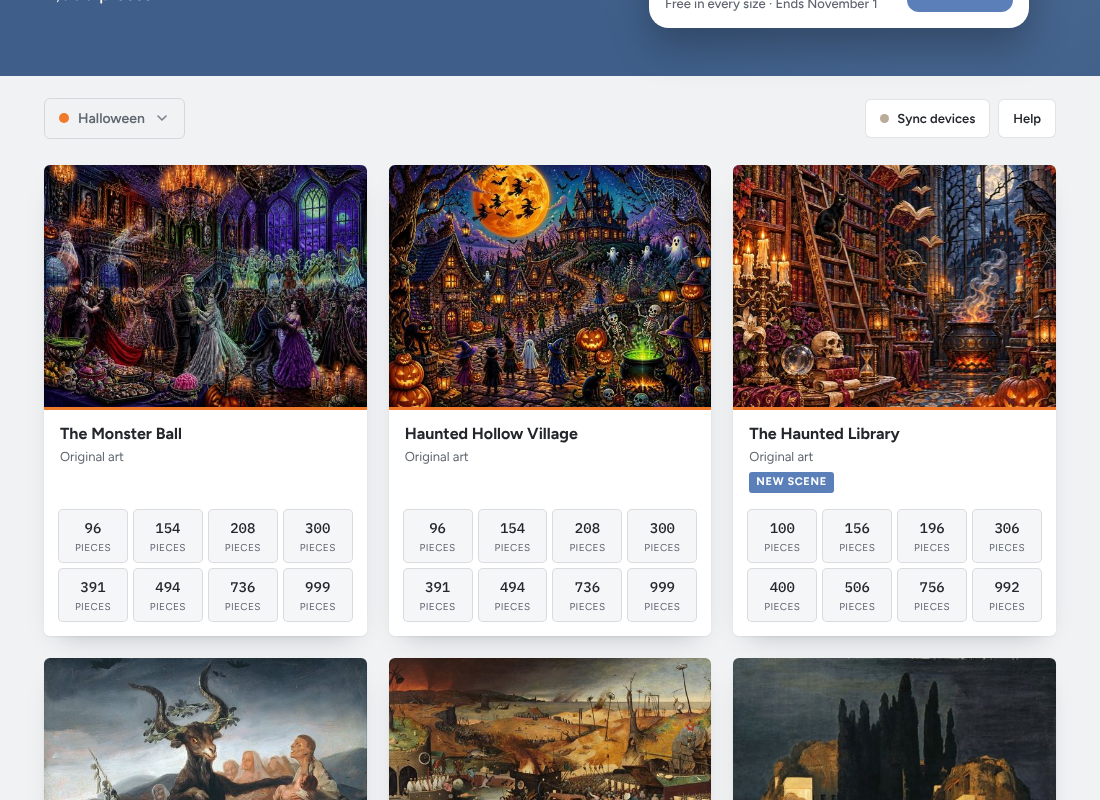
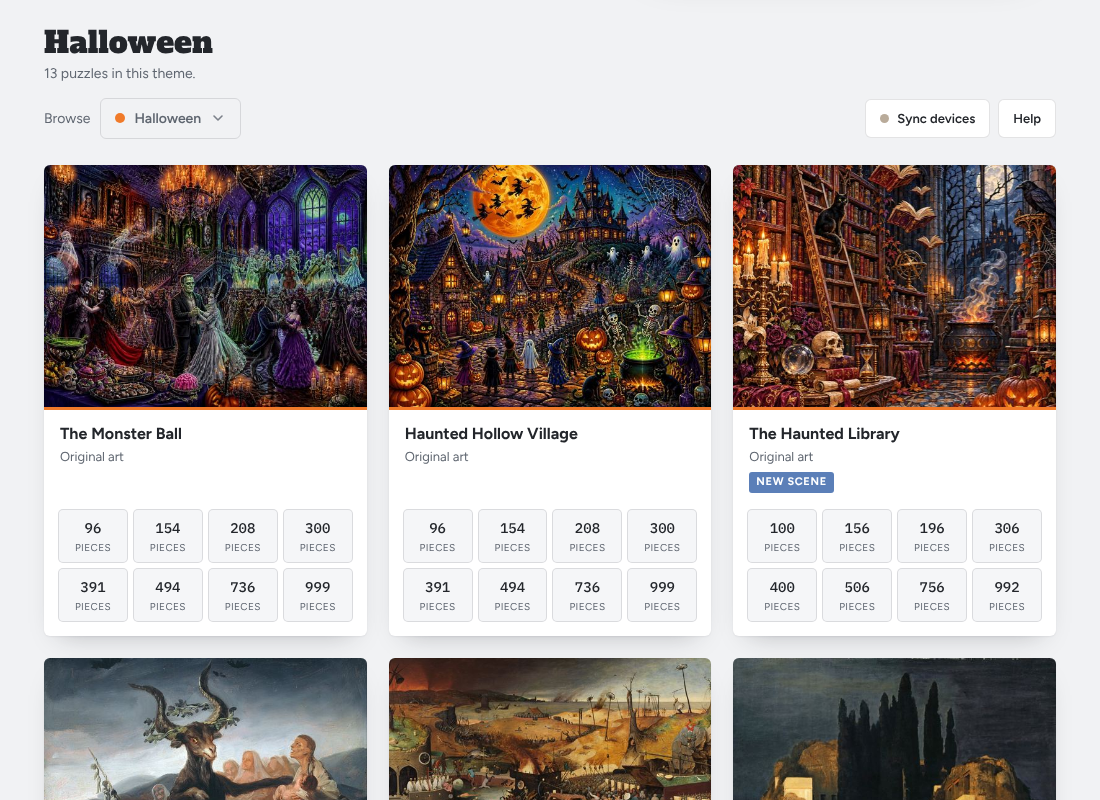
Shelf heading above the theme picker; picker entry reads Home
Claude-Session: https://claude.ai/code/session_01X4jKmC36k778ncv5ZPyc4q

diff --git a/public/index.html b/public/index.html
@@ -62,7 +62,11 @@ button{font:inherit;color:inherit}
 .mast h1{font-family:var(--display);font-weight:400;font-size:clamp(42px,8vw,76px);line-height:1;letter-spacing:-.01em;margin:0;color:var(--head-soft);text-wrap:balance}
 .mast h1 span{color:var(--head-ink)}
 .mast p{font-family:"Nunito",var(--body);font-size:clamp(16px,2vw,19px);line-height:1.55;margin:24px 0 0;max-width:36em;color:var(--head-ink);opacity:.95}
-.tabs{display:flex;flex-wrap:wrap;align-items:center;gap:8px;margin-block:22px 26px}
+.shelfhead{margin:26px 0 14px}
+.shelfhead h2{font-family:var(--display);font-weight:400;font-size:clamp(24px,3.2vw,30px);line-height:1.1;margin:0;color:var(--ink)}
+.shelfhead p{margin:4px 0 0;font-size:14px;color:var(--muted)}
+.browse{font-size:14px;color:var(--muted);margin-right:2px}
+.tabs{display:flex;flex-wrap:wrap;align-items:center;gap:8px;margin-block:0 26px}
 .picker{position:relative}
 .tab-cur{background:var(--ink);color:var(--wood);border-color:var(--ink);padding-right:12px}
 .tab-cur svg{width:16px;height:16px;opacity:.8}
@@ -294,7 +298,9 @@ label.hard input{accent-color:var(--brass-text);width:16px;height:16px;margin:0}
       <h2>Pinned</h2>
       <div class="pinrow" id="pinrow"></div>
     </section>
+    <div class="shelfhead"><h2 id="shelfTitle"></h2><p id="shelfSub"></p></div>
     <nav class="tabs" id="tabs" aria-label="Puzzle themes">
+      <span class="browse">Browse</span>
       <div class="picker">
         <button class="tab tab-cur" id="themeBtn" aria-haspopup="listbox" aria-expanded="false" aria-controls="themeMenu"><i></i><span id="themeName"></span><svg viewBox="0 0 24 24" fill="none" stroke="currentColor" stroke-width="2.4" stroke-linecap="round" stroke-linejoin="round" aria-hidden="true"><path d="M6 9l6 6 6-6"/></svg></button>
         <ul class="menu" id="themeMenu" role="listbox" hidden></ul>
@@ -408,7 +414,7 @@ label.hard input{accent-color:var(--brass-text);width:16px;height:16px;margin:0}
 <div id="look" hidden><img id="lookImg" alt=""><div class="cap" id="lookCap"></div></div>
 <script>
 const CATS=[
-  {id:'home',label:'Featured today'},
+  {id:'home',label:'Home'},
   {id:'halloween',label:'Halloween'},
   {id:'holiday',label:'Holidays'},
   {id:'christmas',label:'Christmas'},
@@ -533,6 +539,8 @@ function renderTabs(){
   const c=CATS.find(x=>x.id===cat);
   $('themeBtn').style.setProperty('--dot',`var(--c-${c.id})`); $('themeBtn').querySelector('i').style.background=`var(--c-${c.id})`;
   $('themeName').textContent=c.label;
+  $('shelfTitle').textContent=c.id==='home'?"Today's Featured Puzzles":c.id==='photos'?'My photos':c.label;
+  $('shelfSub').textContent=c.id==='home'?`${HOME_N} picks, reshuffled every ${HOME_PERIOD_DAYS} days. Free ones are marked; an unlock code opens the rest and every theme.`:c.id==='photos'?'Puzzles made from your own pictures, on this device only.':`${countOf(c.id)} puzzles in this theme.`;
   $('themeMenu').innerHTML='<li class="hint" role="presentation">Choose a theme · star it to keep a shortcut</li>'+CATS.filter(x=>x.id==='photos'||countOf(x.id)>0).map(x=>`<li role="option" aria-selected="${x.id===cat}" class="${x.id===cat?'cur':''}"><button class="pick" data-cat="${x.id}" style="--dot:var(--c-${x.id})"><i></i>${x.label}</button><button class="pinb" data-pin="${x.id}" aria-pressed="${pins.includes(x.id)}" aria-label="${pins.includes(x.id)?'Unpin':'Pin'} ${x.label}" title="${pins.includes(x.id)?'Remove shortcut':'Keep as a shortcut'}">${PIN_SVG}</button></li>`).join('');
   $('pins').innerHTML=pins.map(id=>{const x=CATS.find(c=>c.id===id);return `<button class="tab" id="tab-${id}" aria-pressed="${id===cat}" aria-selected="${id===cat}" style="--dot:var(--c-${id})" data-cat="${id}"><i></i>${x.label}</button>`}).join('');
 }
@@ -576,7 +584,7 @@ function renderGrid(){
   renderPinned();
   const ix=idx();
   const list=cat==='photos'?PHOTOS:cat==='home'?featured():IMAGES.filter(i=>i.cat===cat);
-  const lead=cat==='home'?`<p class="shelfnote">Sixteen picks, reshuffled every three days. Free ones are marked; an unlock code opens the rest and every theme.</p>`:cat!=='photos'?'':unlocked()
+  const lead=cat!=='photos'?'':unlocked()
     ?`<article class="box addbox"><button class="addphoto" id="addPhoto"><b>+</b><span>Add a photo</span><small>Turn any picture on this device into a puzzle. It stays on this device only.</small></button></article>`
     :`<article class="box addbox locked"><div class="addphoto"><b>🔒</b><span>Your own photos</span><small>Make puzzles from your own pictures. Part of the full version.</small><button class="btn" id="photoUnlock">Unlock</button></div></article>`;
   $('grid').innerHTML=lead+list.map(img=>{

diff --git a/tools/index.src.html b/tools/index.src.html
@@ -37,7 +37,11 @@ button{font:inherit;color:inherit}
 .mast h1{font-family:var(--display);font-weight:400;font-size:clamp(42px,8vw,76px);line-height:1;letter-spacing:-.01em;margin:0;color:var(--head-soft);text-wrap:balance}
 .mast h1 span{color:var(--head-ink)}
 .mast p{font-family:"Nunito",var(--body);font-size:clamp(16px,2vw,19px);line-height:1.55;margin:24px 0 0;max-width:36em;color:var(--head-ink);opacity:.95}
-.tabs{display:flex;flex-wrap:wrap;align-items:center;gap:8px;margin-block:22px 26px}
+.shelfhead{margin:26px 0 14px}
+.shelfhead h2{font-family:var(--display);font-weight:400;font-size:clamp(24px,3.2vw,30px);line-height:1.1;margin:0;color:var(--ink)}
+.shelfhead p{margin:4px 0 0;font-size:14px;color:var(--muted)}
+.browse{font-size:14px;color:var(--muted);margin-right:2px}
+.tabs{display:flex;flex-wrap:wrap;align-items:center;gap:8px;margin-block:0 26px}
 .picker{position:relative}
 .tab-cur{background:var(--ink);color:var(--wood);border-color:var(--ink);padding-right:12px}
 .tab-cur svg{width:16px;height:16px;opacity:.8}
@@ -266,7 +270,9 @@ label.hard input{accent-color:var(--brass-text);width:16px;height:16px;margin:0}
       <h2>Pinned</h2>
       <div class="pinrow" id="pinrow"></div>
     </section>
+    <div class="shelfhead"><h2 id="shelfTitle"></h2><p id="shelfSub"></p></div>
     <nav class="tabs" id="tabs" aria-label="Puzzle themes">
+      <span class="browse">Browse</span>
       <div class="picker">
         <button class="tab tab-cur" id="themeBtn" aria-haspopup="listbox" aria-expanded="false" aria-controls="themeMenu"><i></i><span id="themeName"></span><svg viewBox="0 0 24 24" fill="none" stroke="currentColor" stroke-width="2.4" stroke-linecap="round" stroke-linejoin="round" aria-hidden="true"><path d="M6 9l6 6 6-6"/></svg></button>
         <ul class="menu" id="themeMenu" role="listbox" hidden></ul>
@@ -380,7 +386,7 @@ label.hard input{accent-color:var(--brass-text);width:16px;height:16px;margin:0}
 <div id="look" hidden><img id="lookImg" alt=""><div class="cap" id="lookCap"></div></div>
 <script>
 const CATS=[
-  {id:'home',label:'Featured today'},
+  {id:'home',label:'Home'},
   {id:'halloween',label:'Halloween'},
   {id:'holiday',label:'Holidays'},
   {id:'christmas',label:'Christmas'},
@@ -505,6 +511,8 @@ function renderTabs(){
   const c=CATS.find(x=>x.id===cat);
   $('themeBtn').style.setProperty('--dot',`var(--c-${c.id})`); $('themeBtn').querySelector('i').style.background=`var(--c-${c.id})`;
   $('themeName').textContent=c.label;
+  $('shelfTitle').textContent=c.id==='home'?"Today's Featured Puzzles":c.id==='photos'?'My photos':c.label;
+  $('shelfSub').textContent=c.id==='home'?`${HOME_N} picks, reshuffled every ${HOME_PERIOD_DAYS} days. Free ones are marked; an unlock code opens the rest and every theme.`:c.id==='photos'?'Puzzles made from your own pictures, on this device only.':`${countOf(c.id)} puzzles in this theme.`;
   $('themeMenu').innerHTML='<li class="hint" role="presentation">Choose a theme · star it to keep a shortcut</li>'+CATS.filter(x=>x.id==='photos'||countOf(x.id)>0).map(x=>`<li role="option" aria-selected="${x.id===cat}" class="${x.id===cat?'cur':''}"><button class="pick" data-cat="${x.id}" style="--dot:var(--c-${x.id})"><i></i>${x.label}</button><button class="pinb" data-pin="${x.id}" aria-pressed="${pins.includes(x.id)}" aria-label="${pins.includes(x.id)?'Unpin':'Pin'} ${x.label}" title="${pins.includes(x.id)?'Remove shortcut':'Keep as a shortcut'}">${PIN_SVG}</button></li>`).join('');
   $('pins').innerHTML=pins.map(id=>{const x=CATS.find(c=>c.id===id);return `<button class="tab" id="tab-${id}" aria-pressed="${id===cat}" aria-selected="${id===cat}" style="--dot:var(--c-${id})" data-cat="${id}"><i></i>${x.label}</button>`}).join('');
 }
@@ -548,7 +556,7 @@ function renderGrid(){
   renderPinned();
   const ix=idx();
   const list=cat==='photos'?PHOTOS:cat==='home'?featured():IMAGES.filter(i=>i.cat===cat);
-  const lead=cat==='home'?`<p class="shelfnote">Sixteen picks, reshuffled every three days. Free ones are marked; an unlock code opens the rest and every theme.</p>`:cat!=='photos'?'':unlocked()
+  const lead=cat!=='photos'?'':unlocked()
     ?`<article class="box addbox"><button class="addphoto" id="addPhoto"><b>+</b><span>Add a photo</span><small>Turn any picture on this device into a puzzle. It stays on this device only.</small></button></article>`
     :`<article class="box addbox locked"><div class="addphoto"><b>🔒</b><span>Your own photos</span><small>Make puzzles from your own pictures. Part of the full version.</small><button class="btn" id="photoUnlock">Unlock</button></div></article>`;
   $('grid').innerHTML=lead+list.map(img=>{

diff --git a/public/sw.js b/public/sw.js
@@ -1,4 +1,4 @@
-const C='puzzle-parlor-1d05f717d5';
+const C='puzzle-parlor-1ae4999943';
 self.addEventListener('install',e=>{e.waitUntil(caches.open(C).then(c=>c.addAll(['./index.html','./manifest.webmanifest','./icon-192.png'])));self.skipWaiting()});
 self.addEventListener('activate',e=>{e.waitUntil(caches.keys().then(ks=>Promise.all(ks.filter(k=>k!==C&&k!=='puzzle-parlor-media').map(k=>caches.delete(k)))));self.clients.claim()});
 self.addEventListener('fetch',e=>{
